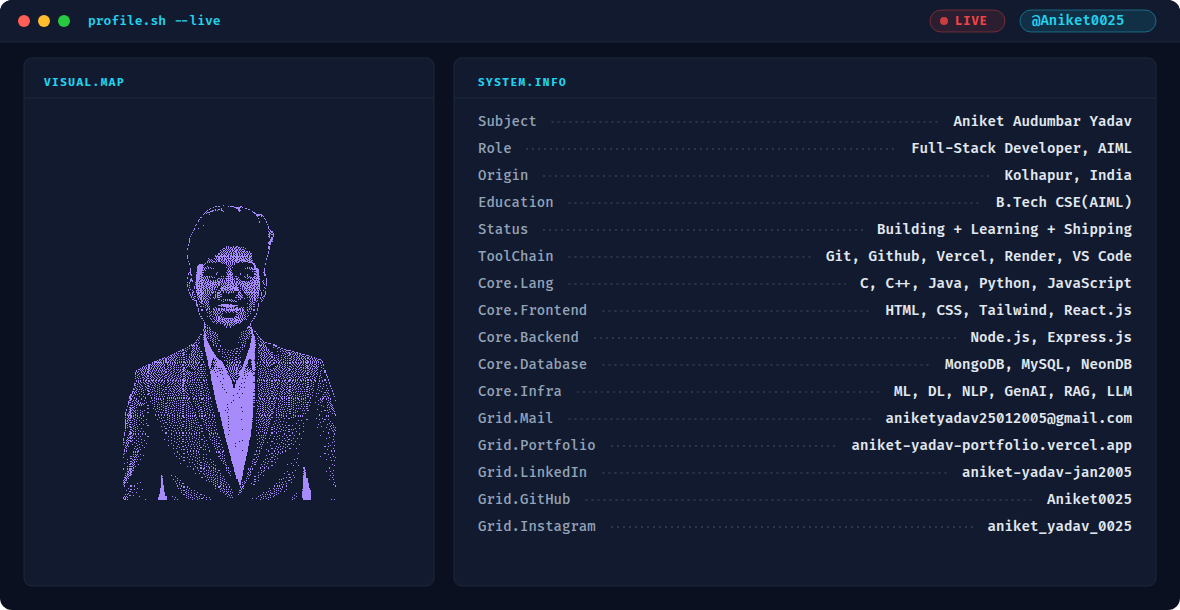
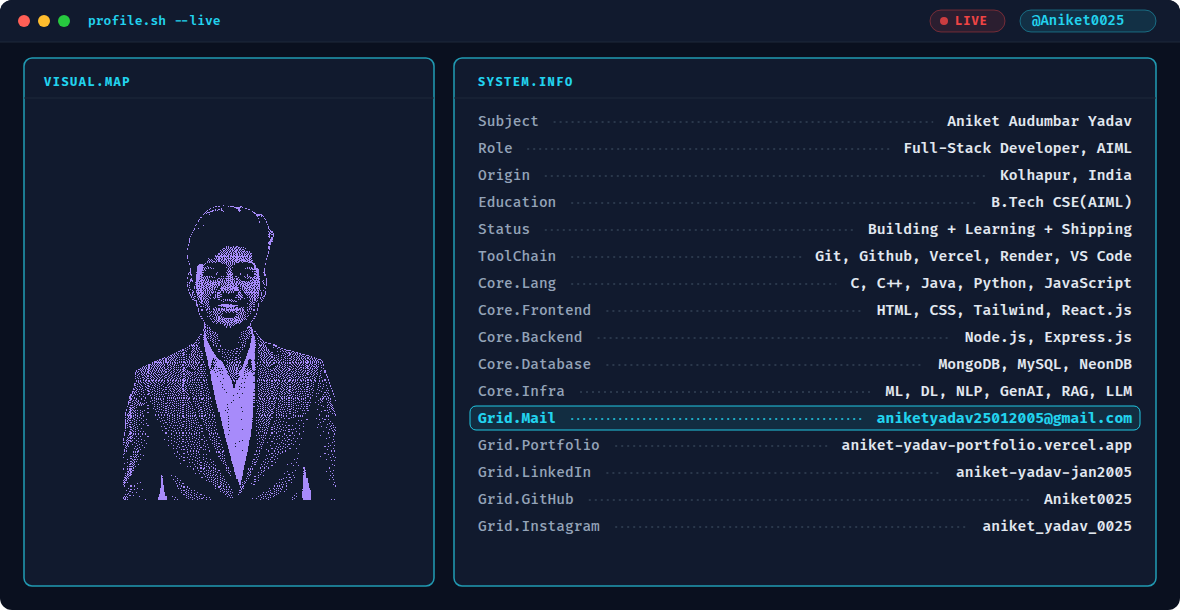
Highlight email ID, add growing card border glow, reduce streak card to 80% and re-order sections

Changed region(s): [[0.0305, 0.0934, 0.9763, 0.9656]]

diff --git a/build_banner.py b/build_banner.py
@@ -31,6 +31,9 @@ PALETTE = {
         'pill_bg': 'rgba(34, 211, 238, 0.12)',
         'pill_border': 'rgba(34, 211, 238, 0.4)',
         'pill_text': '#22D3EE',
+        'mail_bg': 'rgba(34, 211, 238, 0.10)',
+        'mail_border': 'rgba(34, 211, 238, 0.45)',
+        'mail_text': '#22D3EE'
     },
     'light': {
         'bg': '#F8FAFC',
@@ -47,6 +50,9 @@ PALETTE = {
         'pill_bg': 'rgba(8, 145, 178, 0.1)',
         'pill_border': 'rgba(8, 145, 178, 0.3)',
         'pill_text': '#0891B2',
+        'mail_bg': 'rgba(8, 145, 178, 0.08)',
+        'mail_border': 'rgba(8, 145, 178, 0.35)',
+        'mail_text': '#0891B2'
     }
 }
 
@@ -260,9 +266,11 @@ def generate_svg(mode='dark'):
         .hdr-title { font-size: 13px; font-weight: 600; fill: ''' + pal['chrome'] + '''; }
         .hdr-pill { font-size: 14px; font-weight: 600; fill: ''' + pal['pill_text'] + '''; }
         .live-text { font-size: 12px; font-weight: 700; fill: ''' + pal['live_red'] + '''; letter-spacing: 1px; }
-        .lbl-text { font-size: 14px; font-weight: 500; fill: ''' + pal['text_label'] + '''; }
-        .val-text { font-size: 14px; font-weight: 600; fill: ''' + pal['text_value'] + '''; }
-        .section-lbl { font-size: 11px; font-weight: 700; fill: ''' + pal['chrome'] + '''; letter-spacing: 1.5px; }
+        .lbl-text { font-size: 14.5px; font-weight: 500; fill: ''' + pal['text_label'] + '''; }
+        .val-text { font-size: 14.5px; font-weight: 600; fill: ''' + pal['text_value'] + '''; }
+        .lbl-text-mail { font-size: 14.5px; font-weight: 700; fill: ''' + pal['mail_text'] + '''; }
+        .val-text-mail { font-size: 14.5px; font-weight: 700; fill: ''' + pal['mail_text'] + '''; }
+        .section-lbl { font-size: 12px; font-weight: 700; fill: ''' + pal['chrome'] + '''; letter-spacing: 1.5px; }
     ''')
     svg.append('</style>')
     svg.append('</defs>')
@@ -282,7 +290,7 @@ def generate_svg(mode='dark'):
     
     svg.append(f'<text x="88" y="25" class="hdr-title">profile.sh --live</text>')
     
-    # Badges
+    # Live Badge (Pulsing) & Handle Pill in Top Right
     svg.append('<g transform="translate(930, 10)">')
     svg.append(f'<rect x="0" y="0" width="75" height="22" rx="11" fill="rgba(239, 68, 68, 0.12)" stroke="rgba(239, 68, 68, 0.4)" stroke-width="1"/>')
     svg.append(f'<circle cx="14" cy="11" r="4" fill="{pal["live_red"]}">')
@@ -296,19 +304,29 @@ def generate_svg(mode='dark'):
     svg.append(f'<text x="12" y="15" class="hdr-pill">@Aniket0025</text>')
     svg.append('</g>')
     
-    # Cards
-    svg.append(f'<rect x="24" y="58" width="410" height="528" fill="{pal["card_bg"]}" stroke="{pal["card_border"]}" stroke-width="1" rx="8"/>')
+    # Cards with Growing/Pulsing Animated Border
+    svg.append(f'<g id="left-card-group">')
+    svg.append(f'<rect x="24" y="58" width="410" height="528" fill="{pal["card_bg"]}" stroke="{pal["card_border"]}" stroke-width="1" rx="8">')
+    svg.append(f'<animate attributeName="stroke" values="{pal["card_border"]}; {pal["chrome"]}; {pal["card_border"]}" dur="5s" repeatCount="indefinite"/>')
+    svg.append(f'<animate attributeName="stroke-width" values="1; 1.8; 1" dur="5s" repeatCount="indefinite"/>')
+    svg.append(f'</rect>')
     svg.append(f'<text x="44" y="86" class="section-lbl">VISUAL.MAP</text>')
     svg.append(f'<line x1="24" y1="98" x2="434" y2="98" stroke="{pal["card_border"]}" stroke-width="1"/>')
+    svg.append(f'</g>')
     
-    svg.append(f'<rect x="454" y="58" width="702" height="528" fill="{pal["card_bg"]}" stroke="{pal["card_border"]}" stroke-width="1" rx="8"/>')
+    svg.append(f'<g id="right-card-group">')
+    svg.append(f'<rect x="454" y="58" width="702" height="528" fill="{pal["card_bg"]}" stroke="{pal["card_border"]}" stroke-width="1" rx="8">')
+    svg.append(f'<animate attributeName="stroke" values="{pal["card_border"]}; {pal["chrome"]}; {pal["card_border"]}" dur="5s" repeatCount="indefinite"/>')
+    svg.append(f'<animate attributeName="stroke-width" values="1; 1.8; 1" dur="5s" repeatCount="indefinite"/>')
+    svg.append(f'</rect>')
     svg.append(f'<text x="478" y="86" class="section-lbl">SYSTEM.INFO</text>')
     svg.append(f'<line x1="454" y1="98" x2="1156" y2="98" stroke="{pal["card_border"]}" stroke-width="1"/>')
+    svg.append(f'</g>')
     
     # Portrait Container
     svg.append(f'<g id="portrait-container">')
     
-    # Layer A: Intro Layer (Fades in over 1.8s, then FADES OUT COMPLETELY to opacity 0 at 2.8s)
+    # Layer A: Intro Layer
     svg.append(f'<g id="intro-layer" stroke="{pal["portrait_dot"]}" stroke-width="{SCALE:.2f}" shape-rendering="crispEdges">')
     svg.append('<animate attributeName="opacity" values="1;1;0" keyTimes="0; 0.8; 1" begin="0s" dur="3.0s" fill="freeze"/>')
     
@@ -320,8 +338,7 @@ def generate_svg(mode='dark'):
         svg.append('</path>')
     svg.append('</g>')
     
-    # Layer B: Main Portrait Drift Layer (SMIL Loop 13.0s)
-    # Photo is visible (0s-3.0s), dissolves down (3.0s-3.8s), stays hidden (3.8s-11.8s), snaps back (11.8s-12.5s)
+    # Layer B: Main Portrait Drift Layer
     key_times = "0; 0.231; 0.292; 0.446; 0.523; 0.677; 0.754; 0.908; 0.962; 1.0"
     opac_vals = "1; 1; 0; 0; 0; 0; 0; 0; 1; 1"
 
@@ -341,26 +358,15 @@ def generate_svg(mode='dark'):
         svg.append('</g>')
     svg.append('</g>')
 
-    # Layer C: Direct Photo-to-Logo-to-Photo Particle Morph Swarm
-    # 0s-3.0s: At p_photo, opacity = 0
-    # 3.0s-3.8s: Fly p_photo -> p1 (Flutter logo), opacity 0 -> 1 (Particles flow OUT of photo to build Flutter logo!)
-    # 3.8s-5.8s: Hold p1 (Flutter logo), opacity = 1
-    # 5.8s-6.8s: Fly p1 -> p2 (Code logo), opacity = 1 (Morph to Code logo!)
-    # 6.8s-8.8s: Hold p2 (Code logo), opacity = 1
-    # 8.8s-9.8s: Fly p2 -> p3 (Vercel logo), opacity = 1 (Morph to Vercel logo!)
-    # 9.8s-11.8s: Hold p3 (Vercel logo), opacity = 1
-    # 11.8s-12.5s: Fly p3 -> p_photo, opacity 1 -> 0 (Particles fly BACK IN to assemble photo!)
-    # 12.5s-13.0s: At p_photo, opacity = 0
+    # Layer C: Direct Photo-to-Logo Particle Swarm
     traveller_opac = "0; 0; 1; 1; 1; 1; 1; 1; 0; 0"
 
     svg.append(f'<g id="travellers-swarm">')
     dot_r = 1.2
     for i in range(900):
-        # Photo start/end point
         x0 = X_OFFSET + p_photo[i, 0] * SCALE
         y0 = Y_OFFSET + p_photo[i, 1] * SCALE
 
-        # Logo points
         x1 = X_OFFSET + p1[i, 0] * SCALE
         y1 = Y_OFFSET + p1[i, 1] * SCALE
 
@@ -370,7 +376,6 @@ def generate_svg(mode='dark'):
         x3 = X_OFFSET + p3[i, 0] * SCALE
         y3 = Y_OFFSET + p3[i, 1] * SCALE
 
-        # Direct flow chain: p_photo -> p1 -> p2 -> p3 -> p_photo
         cx_vals = f"{x0:.1f}; {x0:.1f}; {x1:.1f}; {x1:.1f}; {x2:.1f}; {x2:.1f}; {x3:.1f}; {x3:.1f}; {x0:.1f}; {x0:.1f}"
         cy_vals = f"{y0:.1f}; {y0:.1f}; {y1:.1f}; {y1:.1f}; {y2:.1f}; {y2:.1f}; {x3:.1f}; {y3:.1f}; {y0:.1f}; {y0:.1f}"
 
@@ -383,7 +388,7 @@ def generate_svg(mode='dark'):
 
     svg.append('</g>')
 
-    # Info Rows
+    # Info Rows with Email Highlighting Pill
     start_y = 126
     row_h = 27
     left_x = 478
@@ -393,20 +398,33 @@ def generate_svg(mode='dark'):
     for idx, (label, val) in enumerate(rows_data):
         y = start_y + idx * row_h
 
-        lbl_w = len(label) * 8.5 + 8
-        val_w = len(val) * 8.5 + 8
+        lbl_w = len(label) * 8.8 + 8
+        val_w = len(val) * 8.8 + 8
 
         leader_start_x = left_x + lbl_w + 6
         leader_end_x = right_x - val_w - 6
 
         svg.append(f'<g transform="translate(0, {y})">')
-        svg.append(f'<text x="{left_x}" y="0" class="lbl-text">{label}</text>')
-
-        if leader_end_x > leader_start_x + 10:
-            svg.append(f'<line x1="{leader_start_x:.1f}" y1="-4" x2="{leader_end_x:.1f}" y2="-4" stroke="{pal["dotted_leader"]}" stroke-width="1.5" stroke-dasharray="2 4"/>')
-
-        val_len_px = len(val) * 8.5
-        svg.append(f'<text x="{right_x}" y="0" class="val-text" text-anchor="end" textLength="{val_len_px:.1f}" lengthAdjust="spacingAndGlyphs">{val}</text>')
+        
+        # Email ID Highlight (Grid.Mail)
+        if label == "Grid.Mail":
+            # Highlight pill rectangle
+            svg.append(f'<rect x="{left_x - 8}" y="-17" width="{right_x - left_x + 16}" height="24" rx="6" fill="{pal["mail_bg"]}" stroke="{pal["mail_border"]}" stroke-width="1">')
+            svg.append(f'<animate attributeName="stroke" values="{pal["mail_border"]}; {pal["chrome"]}; {pal["mail_border"]}" dur="3s" repeatCount="indefinite"/>')
+            svg.append(f'</rect>')
+            
+            svg.append(f'<text x="{left_x}" y="0" class="lbl-text-mail">{label}</text>')
+            if leader_end_x > leader_start_x + 10:
+                svg.append(f'<line x1="{leader_start_x:.1f}" y1="-4" x2="{leader_end_x:.1f}" y2="-4" stroke="{pal["chrome"]}" stroke-width="1.5" stroke-dasharray="2 4"/>')
+            val_len_px = len(val) * 8.8
+            svg.append(f'<text x="{right_x}" y="0" class="val-text-mail" text-anchor="end" textLength="{val_len_px:.1f}" lengthAdjust="spacingAndGlyphs">{val}</text>')
+        else:
+            svg.append(f'<text x="{left_x}" y="0" class="lbl-text">{label}</text>')
+            if leader_end_x > leader_start_x + 10:
+                svg.append(f'<line x1="{leader_start_x:.1f}" y1="-4" x2="{leader_end_x:.1f}" y2="-4" stroke="{pal["dotted_leader"]}" stroke-width="1.5" stroke-dasharray="2 4"/>')
+            val_len_px = len(val) * 8.8
+            svg.append(f'<text x="{right_x}" y="0" class="val-text" text-anchor="end" textLength="{val_len_px:.1f}" lengthAdjust="spacingAndGlyphs">{val}</text>')
+            
         svg.append('</g>')
     svg.append('</g>')
 

diff --git a/README.md b/README.md
@@ -2,16 +2,45 @@
 
 <!-- Animated Banner (Dark/Light Responsive) -->
 <picture>
-  <source media="(prefers-color-scheme: dark)" srcset="https://raw.githubusercontent.com/Aniket0025/Aniket0025/main/dark.svg?v=4">
-  <source media="(prefers-color-scheme: light)" srcset="https://raw.githubusercontent.com/Aniket0025/Aniket0025/main/light.svg?v=4">
-  <img alt="Aniket Audumbar Yadav -- Terminal Profile Banner" src="https://raw.githubusercontent.com/Aniket0025/Aniket0025/main/dark.svg?v=4" width="100%">
+  <source media="(prefers-color-scheme: dark)" srcset="https://raw.githubusercontent.com/Aniket0025/Aniket0025/main/dark.svg?v=6">
+  <source media="(prefers-color-scheme: light)" srcset="https://raw.githubusercontent.com/Aniket0025/Aniket0025/main/light.svg?v=6">
+  <img alt="Aniket Audumbar Yadav -- Terminal Profile Banner" src="https://raw.githubusercontent.com/Aniket0025/Aniket0025/main/dark.svg?v=6" width="100%">
 </picture>
 
 <br/><br/>
 
-<!-- Social Badges (shields.io for-the-badge style) -->
+<!-- Live GitHub Stats & Filtered Top Languages (Side-by-Side 49%) -->
+<p align="center">
+  <img src="https://github-readme-stats-fast.vercel.app/api?username=Aniket0025&show_icons=true&hide_border=true&bg_color=0A101F&title_color=22D3EE&icon_color=10B981&text_color=94A3B8&border_radius=8&hide_rank=true" width="49%" alt="Aniket's GitHub Stats" />
+  &nbsp;
+  <img src="https://github-readme-stats-fast.vercel.app/api/top-langs/?username=Aniket0025&layout=compact&hide_border=true&bg_color=0A101F&title_color=22D3EE&text_color=94A3B8&border_radius=8&hide=Jupyter%20Notebook,PureBasic&langs_count=6" width="49%" alt="Top Languages" />
+</p>
+
+<br/>
+
+<!-- Contribution Streak Card (Reduced 80% Width & Centered) -->
+<p align="center">
+  <img src="https://streak-stats.demolab.com/?user=Aniket0025&theme=dark&background=0A101F&border=1E293B&stroke=22D3EE&ring=A78BFA&fire=10B981&currStreakNum=22D3EE&sideNums=F8FAFC&sideLabels=94A3B8&dates=64748B&hide_border=true" width="80%" alt="GitHub Contribution Streak" />
+</p>
+
+<br/><br/>
+
+<!-- Contribution Snake Animation (Second Last Section) -->
+<picture>
+  <source media="(prefers-color-scheme: dark)" srcset="https://raw.githubusercontent.com/Aniket0025/Aniket0025/output/github-contribution-grid-snake-dark.svg">
+  <source media="(prefers-color-scheme: light)" srcset="https://raw.githubusercontent.com/Aniket0025/Aniket0025/output/github-contribution-grid-snake.svg">
+  <img alt="Aniket's Contribution Snake" src="https://raw.githubusercontent.com/Aniket0025/Aniket0025/output/github-contribution-grid-snake-dark.svg" width="100%">
+</picture>
+
+<br/><br/>
+
+<!-- Social Badges (Final Last Section) -->
 <a href="https://www.linkedin.com/in/aniket-yadav-jan2005/" target="_blank">
   <img src="https://img.shields.io/badge/LinkedIn-0A66C2?style=for-the-badge&logo=linkedin&logoColor=white" alt="LinkedIn Badge" />
+</a>
+&nbsp;&nbsp;
+<a href="https://leetcode.com/u/Aniket0025/" target="_blank">
+  <img src="https://img.shields.io/badge/LeetCode-0A101F?style=for-the-badge&logo=leetcode&logoColor=FFA116" alt="LeetCode Badge" />
 </a>
 &nbsp;&nbsp;
 <a href="https://aniket-yadav-portfolio.vercel.app/" target="_blank">
@@ -25,28 +54,5 @@
 <a href="https://www.instagram.com/aniket_yadav_0025/" target="_blank">
   <img src="https://img.shields.io/badge/Instagram-0A101F?style=for-the-badge&logo=instagram&logoColor=A78BFA" alt="Instagram Badge" />
 </a>
-
-<br/><br/>
-
-<!-- Contribution Snake Animation -->
-<picture>
-  <source media="(prefers-color-scheme: dark)" srcset="https://raw.githubusercontent.com/Aniket0025/Aniket0025/output/github-contribution-grid-snake-dark.svg">
-  <source media="(prefers-color-scheme: light)" srcset="https://raw.githubusercontent.com/Aniket0025/Aniket0025/output/github-contribution-grid-snake.svg">
-  <img alt="Aniket's Contribution Snake" src="https://raw.githubusercontent.com/Aniket0025/Aniket0025/output/github-contribution-grid-snake-dark.svg" width="100%">
-</picture>
-
-<br/><br/>
-
-<!-- Contribution Streak Card (Full Width) -->
-<img src="https://streak-stats.demolab.com/?user=Aniket0025&theme=dark&background=0A101F&border=1E293B&stroke=22D3EE&ring=A78BFA&fire=10B981&currStreakNum=22D3EE&sideNums=F8FAFC&sideLabels=94A3B8&dates=64748B&hide_border=true" width="100%" alt="GitHub Contribution Streak" />
-
-<br/><br/>
-
-<!-- Live GitHub Stats & Top Languages (Side-by-Side 49%) -->
-<p align="center">
-  <img src="https://github-readme-stats-fast.vercel.app/api?username=Aniket0025&show_icons=true&hide_border=true&bg_color=0A101F&title_color=22D3EE&icon_color=10B981&text_color=94A3B8&border_radius=8&hide_rank=true" width="49%" alt="Aniket's GitHub Stats" />
-  &nbsp;
-  <img src="https://github-readme-stats-fast.vercel.app/api/top-langs/?username=Aniket0025&layout=compact&hide_border=true&bg_color=0A101F&title_color=22D3EE&text_color=94A3B8&border_radius=8" width="49%" alt="Top Languages" />
-</p>
 
 </div>
